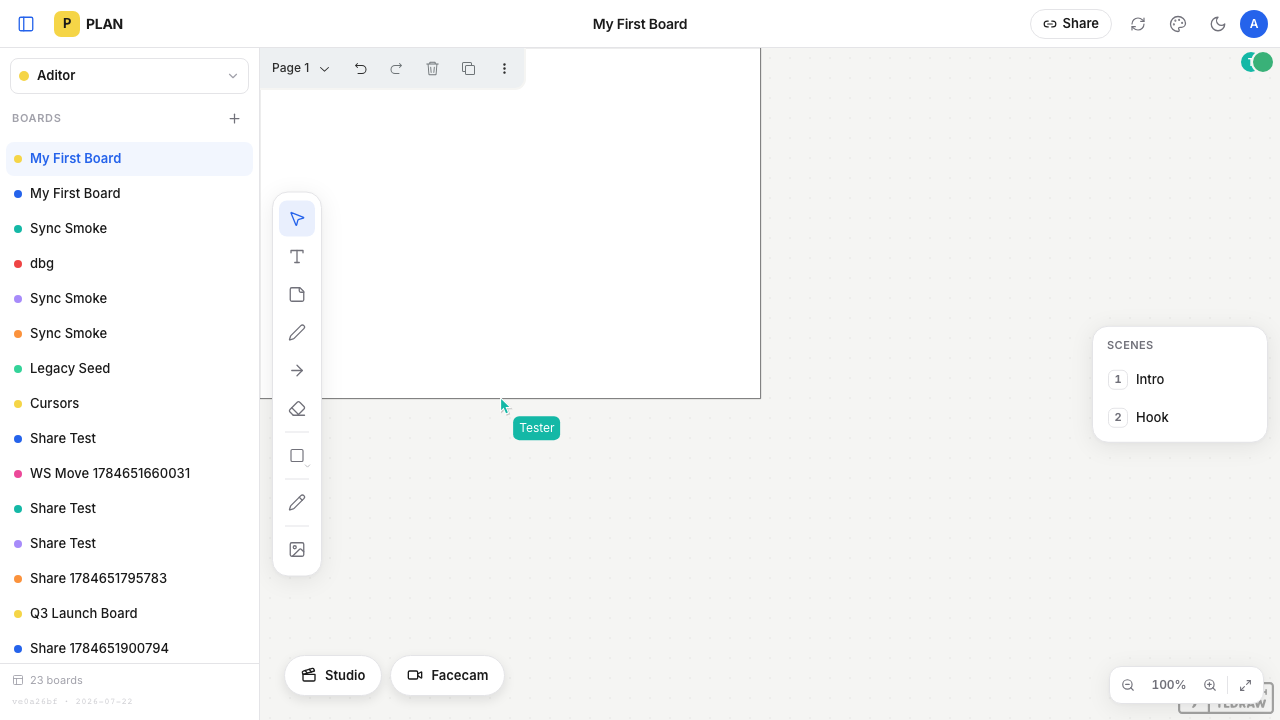
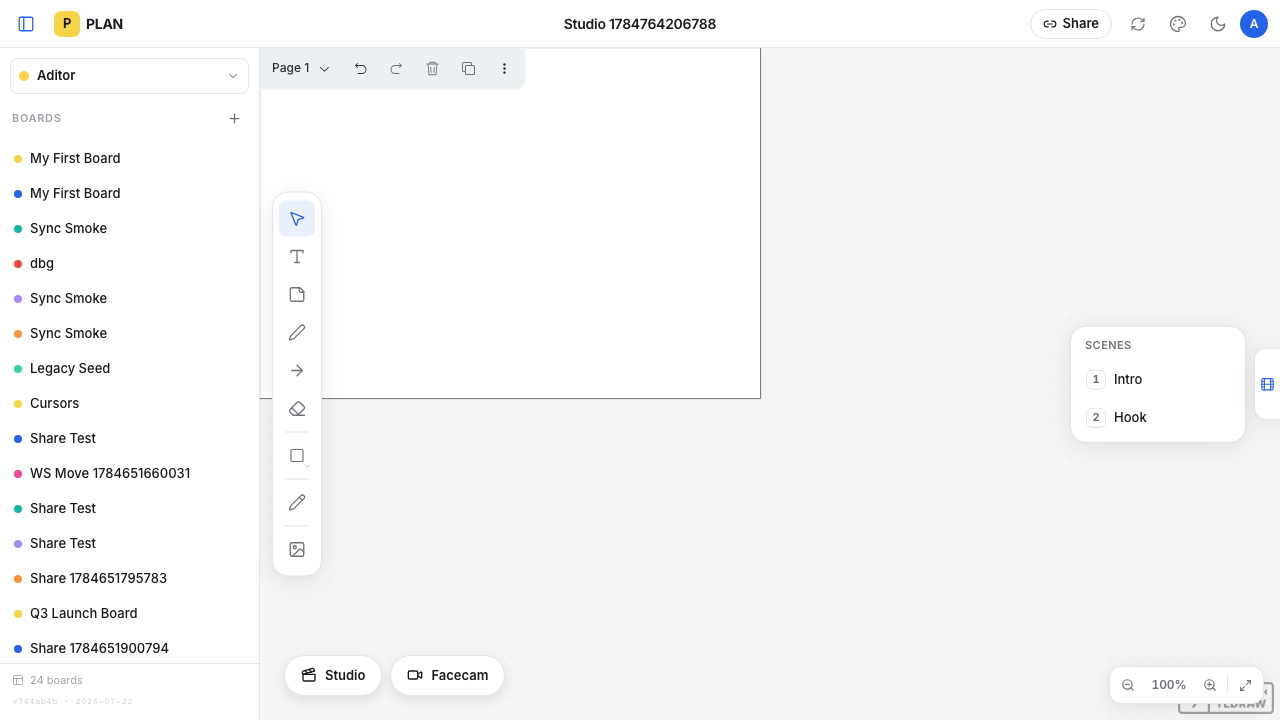
Scene panel hides behind an edge handle, reveals on hover
At rest only a slim right-edge handle shows; hovering it (or the list)
slides the scene list out. Keeps the canvas uncluttered. Studio smoke now
uses a fresh board so scene frames don't pile up across runs.

diff --git a/src/components/ScenePanel.tsx b/src/components/ScenePanel.tsx
@@ -1,13 +1,16 @@
 "use client";
 
+import { useState } from "react";
+import { Film } from "lucide-react";
+
 interface Scene {
   id: string;
   num: number;
   name: string;
 }
 
-// Narrow scene list pinned to the right edge (outside Studio mode). Click jumps
-// the camera. Reordering is by renaming the frame's number — noted as a hint.
+// Scene list, tucked against the right edge. Hidden behind a slim handle so it
+// doesn't clutter the canvas — hovering the handle (or the list) reveals it.
 export default function ScenePanel({
   scenes,
   activeId,
@@ -17,107 +20,143 @@ export default function ScenePanel({
   activeId: string | null;
   onGoTo: (id: string) => void;
 }) {
+  const [open, setOpen] = useState(false);
+
   return (
     <div
+      onMouseLeave={() => setOpen(false)}
       style={{
         position: "absolute",
-        right: 12,
+        right: 0,
         top: "50%",
         transform: "translateY(-50%)",
         zIndex: 400,
-        width: 176,
-        maxHeight: "70vh",
-        overflowY: "auto",
         display: "flex",
-        flexDirection: "column",
-        gap: 2,
-        padding: 6,
-        background: "var(--surface)",
-        border: "1px solid var(--border)",
-        borderRadius: 16,
-        boxShadow: "var(--shadow-float)",
+        alignItems: "center",
+        gap: 8,
       }}
     >
+      {open && (
+        <div
+          style={{
+            width: 176,
+            maxHeight: "70vh",
+            overflowY: "auto",
+            display: "flex",
+            flexDirection: "column",
+            gap: 2,
+            padding: 6,
+            background: "var(--surface)",
+            border: "1px solid var(--border)",
+            borderRadius: 16,
+            boxShadow: "var(--shadow-float)",
+            animation: "scaleIn 140ms ease",
+          }}
+        >
+          <div
+            style={{
+              fontSize: 11,
+              fontWeight: 600,
+              color: "var(--text-secondary)",
+              textTransform: "uppercase",
+              letterSpacing: "0.04em",
+              padding: "4px 8px 6px",
+            }}
+          >
+            Scenes
+          </div>
+
+          {scenes.length === 0 ? (
+            <div style={{ fontSize: 12, color: "var(--text-secondary)", padding: "2px 8px 8px", lineHeight: 1.4 }}>
+              Name a frame with a number to add a scene, like &ldquo;1 Intro&rdquo;.
+            </div>
+          ) : (
+            scenes.map((s) => (
+              <button
+                key={s.id}
+                onClick={() => onGoTo(s.id)}
+                style={{
+                  display: "flex",
+                  alignItems: "center",
+                  gap: 8,
+                  width: "100%",
+                  padding: "7px 8px",
+                  background: activeId === s.id ? "var(--surface-hover)" : "transparent",
+                  border: "1px solid transparent",
+                  borderRadius: 9,
+                  cursor: "pointer",
+                  textAlign: "left",
+                  color: "var(--text-primary)",
+                  transition: "background 100ms ease",
+                }}
+                onMouseEnter={(e) => {
+                  if (activeId !== s.id)
+                    (e.currentTarget as HTMLButtonElement).style.background = "var(--surface-hover)";
+                }}
+                onMouseLeave={(e) => {
+                  if (activeId !== s.id)
+                    (e.currentTarget as HTMLButtonElement).style.background = "transparent";
+                }}
+                title={s.name}
+              >
+                <span
+                  style={{
+                    flexShrink: 0,
+                    width: 20,
+                    height: 20,
+                    borderRadius: 6,
+                    background: "var(--bg-default)",
+                    border: "1px solid var(--border)",
+                    display: "flex",
+                    alignItems: "center",
+                    justifyContent: "center",
+                    fontSize: 11,
+                    fontWeight: 700,
+                    color: "var(--text-secondary)",
+                    fontVariantNumeric: "tabular-nums",
+                  }}
+                >
+                  {s.num}
+                </span>
+                <span
+                  style={{
+                    fontSize: 13,
+                    fontWeight: 500,
+                    whiteSpace: "nowrap",
+                    overflow: "hidden",
+                    textOverflow: "ellipsis",
+                  }}
+                >
+                  {s.name.replace(/^\d+\s*/, "") || "Untitled"}
+                </span>
+              </button>
+            ))
+          )}
+        </div>
+      )}
+
+      {/* Slim edge handle — always present, the hover anchor. */}
       <div
+        aria-label="Scenes"
+        onMouseEnter={() => setOpen(true)}
         style={{
-          fontSize: 11,
-          fontWeight: 600,
-          color: "var(--text-secondary)",
-          textTransform: "uppercase",
-          letterSpacing: "0.04em",
-          padding: "4px 8px 6px",
+          display: "flex",
+          alignItems: "center",
+          justifyContent: "center",
+          width: 26,
+          height: 72,
+          borderRadius: "12px 0 0 12px",
+          background: "var(--surface)",
+          borderTop: "1px solid var(--border)",
+          borderLeft: "1px solid var(--border)",
+          borderBottom: "1px solid var(--border)",
+          boxShadow: "var(--shadow-float)",
+          color: open ? "var(--accent-blue)" : "var(--text-secondary)",
+          cursor: "pointer",
         }}
       >
-        Scenes
+        <Film size={15} strokeWidth={1.75} />
       </div>
-
-      {scenes.length === 0 ? (
-        <div style={{ fontSize: 12, color: "var(--text-secondary)", padding: "2px 8px 8px", lineHeight: 1.4 }}>
-          Name a frame with a number to add a scene, like &ldquo;1 Intro&rdquo;.
-        </div>
-      ) : (
-        scenes.map((s) => (
-          <button
-            key={s.id}
-            onClick={() => onGoTo(s.id)}
-            className={activeId === s.id ? "active" : ""}
-            style={{
-              display: "flex",
-              alignItems: "center",
-              gap: 8,
-              width: "100%",
-              padding: "7px 8px",
-              background: activeId === s.id ? "var(--surface-hover)" : "transparent",
-              border: "1px solid transparent",
-              borderRadius: 9,
-              cursor: "pointer",
-              textAlign: "left",
-              color: "var(--text-primary)",
-              transition: "background 100ms ease",
-            }}
-            onMouseEnter={(e) => {
-              if (activeId !== s.id)
-                (e.currentTarget as HTMLButtonElement).style.background = "var(--surface-hover)";
-            }}
-            onMouseLeave={(e) => {
-              if (activeId !== s.id)
-                (e.currentTarget as HTMLButtonElement).style.background = "transparent";
-            }}
-            title={s.name}
-          >
-            <span
-              style={{
-                flexShrink: 0,
-                width: 20,
-                height: 20,
-                borderRadius: 6,
-                background: "var(--bg-default)",
-                border: "1px solid var(--border)",
-                display: "flex",
-                alignItems: "center",
-                justifyContent: "center",
-                fontSize: 11,
-                fontWeight: 700,
-                color: "var(--text-secondary)",
-                fontVariantNumeric: "tabular-nums",
-              }}
-            >
-              {s.num}
-            </span>
-            <span
-              style={{
-                fontSize: 13,
-                fontWeight: 500,
-                whiteSpace: "nowrap",
-                overflow: "hidden",
-                textOverflow: "ellipsis",
-              }}
-            >
-              {s.name.replace(/^\d+\s*/, "") || "Untitled"}
-            </span>
-          </button>
-        ))
-      )}
     </div>
   );
 }

diff --git a/e2e/studio.spec.ts b/e2e/studio.spec.ts
@@ -4,8 +4,11 @@ import { test, expect } from "@playwright/test";
 // Studio mode hides all chrome and drives the camera with the keyboard.
 test("scenes drive the camera and Studio mode hides all chrome", async ({ page }) => {
   await page.addInitScript(() => localStorage.setItem("plan-user-name", "Tester"));
-  await page.goto("/");
-  await page.waitForURL(/\/board\/.+/, { timeout: 20_000 });
+  // Fresh, empty board so scene frames don't accumulate across runs (sync persists).
+  const board = await (
+    await page.request.post("/api/boards", { data: { name: `Studio ${Date.now()}` } })
+  ).json();
+  await page.goto(`/board/${board.id}`);
   await page.waitForFunction(() => !!(window as any).__tldrawEditor, null, { timeout: 20_000 });
 
   // Two numbered frames (a scene) + one plain frame (not a scene), created apart
@@ -19,7 +22,9 @@ test("scenes drive the camera and Studio mode hides all chrome", async ({ page }
     mk("Moodboard", -1400, 800);
   });
 
-  // Scene panel lists exactly the two numbered frames, in order.
+  // The panel is tucked behind an edge handle; hovering it reveals the list,
+  // which shows exactly the two numbered frames.
+  await page.locator('[aria-label="Scenes"]').hover();
   await expect(page.getByTitle("1 Intro")).toBeVisible();
   await expect(page.getByTitle("2 Hook")).toBeVisible();
   await expect(page.getByTitle("Moodboard")).toHaveCount(0);